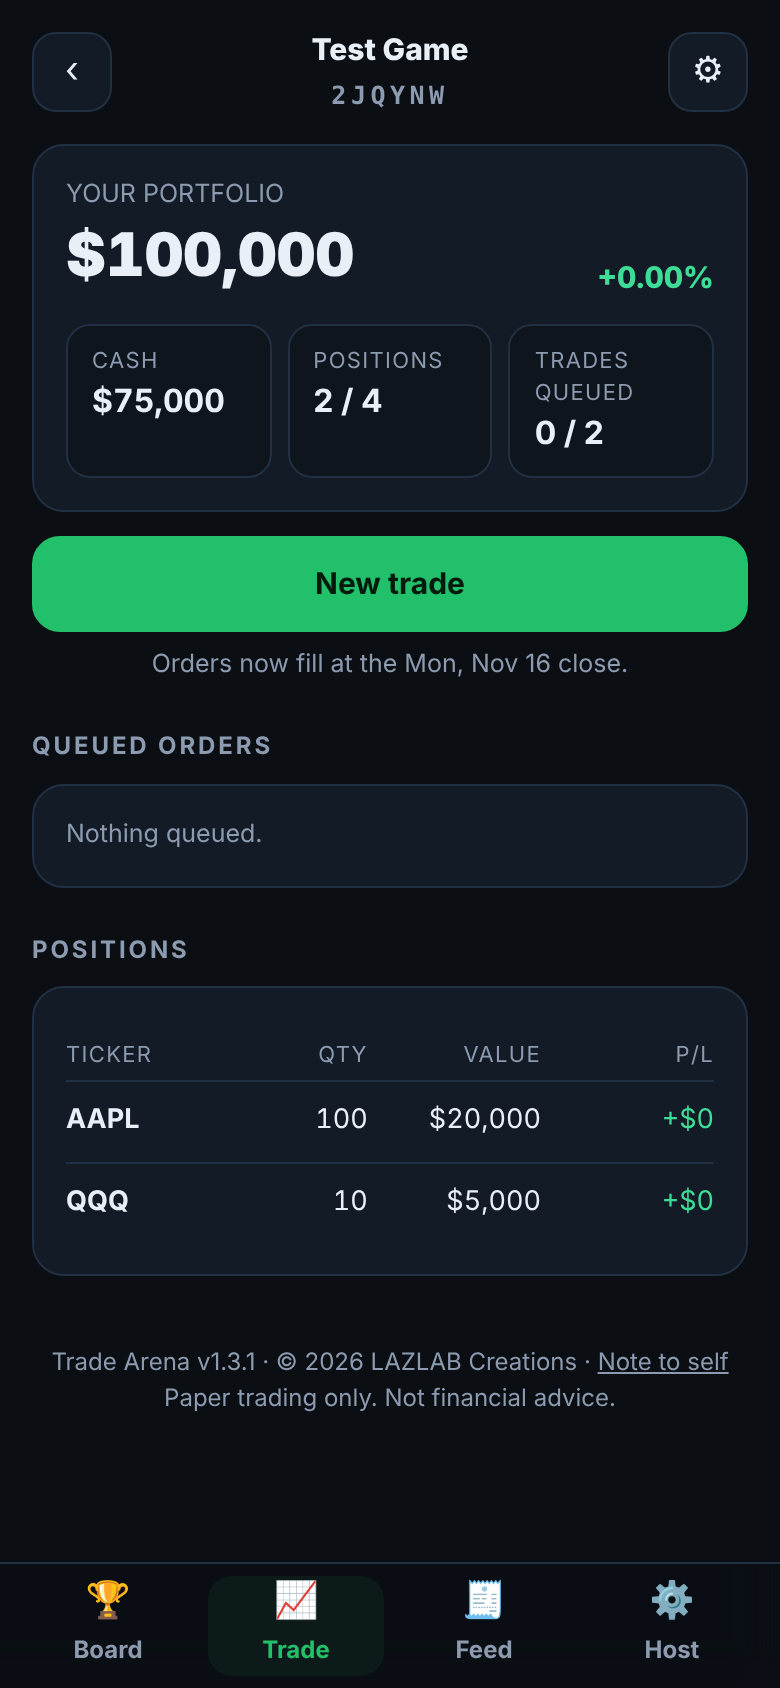
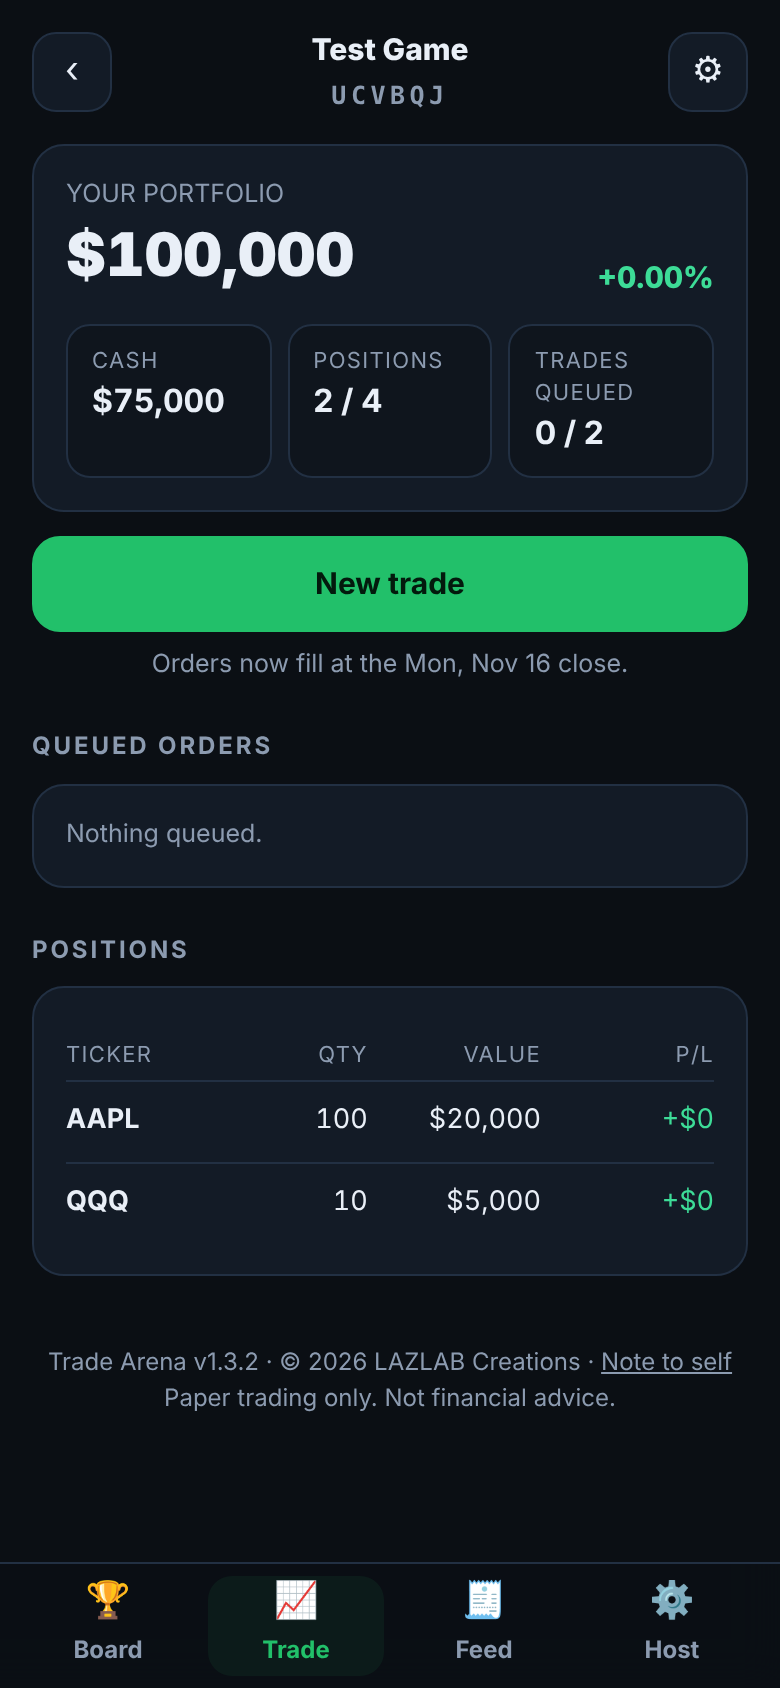
Use shared Cloudflare Worker price proxy by default (v1.3.2)
Claude-Session: https://claude.ai/code/session_01XbY6KJrmjtQR5KoU1WCBFq

Changed region(s): [[0.0615, 0.8009, 0.7385, 0.8318], [0.7692, 0.8009, 0.9538, 0.8318], [0.4308, 0.0308, 0.5846, 0.0616]]

diff --git a/app/index.html b/app/index.html
@@ -250,7 +250,7 @@ function retPct(eq, base) { return (eq / base - 1) * 100; }
 // ══════════════════════════════════════════
 //  HELPERS + MARKET DATA
 // ══════════════════════════════════════════
-const APP_VERSION = '1.3.1';
+const APP_VERSION = '1.3.2';
 const $ = (s, r) => (r || document).querySelector(s);
 const esc = s => String(s == null ? '' : s).replace(/[&<>"']/g, c => ({ '&': '&amp;', '<': '&lt;', '>': '&gt;', '"': '&quot;', "'": '&#39;' }[c]));
 const lsGet = (k, d) => { try { const v = localStorage.getItem(k); return v == null ? d : JSON.parse(v); } catch (e) { return d; } };
@@ -273,6 +273,8 @@ const PROXIES = [
   { id: 'allorigins', url: u => 'https://api.allorigins.win/raw?url=' + encodeURIComponent(u) },
   { id: 'codetabs', url: u => 'https://api.codetabs.com/v1/proxy?quest=' + encodeURIComponent(u) }
 ];
+// Shared price proxy (a free Cloudflare Worker that only forwards Yahoo chart requests). A proxy URL set in Settings overrides it.
+const DEFAULT_PROXY = 'https://trade-prices.johnlazzaro25.workers.dev';
 let proxyStats = lsGet('ta_proxy_stats', {});
 const proxyScore = id => { const s = proxyStats[id] || { ok: 0, fail: 0, ms: 0 }; return s.ok - s.fail * 1.5 - (s.ms || 0) / 4000; };
 function proxyNote(id, ok, ms) {
@@ -322,7 +324,7 @@ function proxyGet(urls) {
   const order = PROXIES.slice().sort((a, b) => proxyScore(b.id) - proxyScore(a.id));
   const mk = (id, mkUrl, u) => ({ id, run: async signal => parseYahoo(await fetch(mkUrl(u), { signal })) });
   const attempts = [];
-  const custom = cleanProxyUrl(lsRaw('ta_proxy'));
+  const custom = cleanProxyUrl(lsRaw('ta_proxy')) || DEFAULT_PROXY;
   if (custom) urls.forEach(u => attempts.push(mk('custom', x => custom + (custom.indexOf('?') >= 0 ? '&' : '?') + 'url=' + encodeURIComponent(x), u)));
   attempts.push(mk('direct', x => x, urls[0]));
   urls.forEach(u => order.forEach(p => attempts.push(mk(p.id, p.url, u))));

diff --git a/src/20_data.js b/src/20_data.js
@@ -1,7 +1,7 @@
 // ══════════════════════════════════════════
 //  HELPERS + MARKET DATA
 // ══════════════════════════════════════════
-const APP_VERSION = '1.3.1';
+const APP_VERSION = '1.3.2';
 const $ = (s, r) => (r || document).querySelector(s);
 const esc = s => String(s == null ? '' : s).replace(/[&<>"']/g, c => ({ '&': '&amp;', '<': '&lt;', '>': '&gt;', '"': '&quot;', "'": '&#39;' }[c]));
 const lsGet = (k, d) => { try { const v = localStorage.getItem(k); return v == null ? d : JSON.parse(v); } catch (e) { return d; } };
@@ -24,6 +24,8 @@ const PROXIES = [
   { id: 'allorigins', url: u => 'https://api.allorigins.win/raw?url=' + encodeURIComponent(u) },
   { id: 'codetabs', url: u => 'https://api.codetabs.com/v1/proxy?quest=' + encodeURIComponent(u) }
 ];
+// Shared price proxy (a free Cloudflare Worker that only forwards Yahoo chart requests). A proxy URL set in Settings overrides it.
+const DEFAULT_PROXY = 'https://trade-prices.johnlazzaro25.workers.dev';
 let proxyStats = lsGet('ta_proxy_stats', {});
 const proxyScore = id => { const s = proxyStats[id] || { ok: 0, fail: 0, ms: 0 }; return s.ok - s.fail * 1.5 - (s.ms || 0) / 4000; };
 function proxyNote(id, ok, ms) {
@@ -73,7 +75,7 @@ function proxyGet(urls) {
   const order = PROXIES.slice().sort((a, b) => proxyScore(b.id) - proxyScore(a.id));
   const mk = (id, mkUrl, u) => ({ id, run: async signal => parseYahoo(await fetch(mkUrl(u), { signal })) });
   const attempts = [];
-  const custom = cleanProxyUrl(lsRaw('ta_proxy'));
+  const custom = cleanProxyUrl(lsRaw('ta_proxy')) || DEFAULT_PROXY;
   if (custom) urls.forEach(u => attempts.push(mk('custom', x => custom + (custom.indexOf('?') >= 0 ? '&' : '?') + 'url=' + encodeURIComponent(x), u)));
   attempts.push(mk('direct', x => x, urls[0]));
   urls.forEach(u => order.forEach(p => attempts.push(mk(p.id, p.url, u))));

diff --git a/test/e2e.js b/test/e2e.js
@@ -21,7 +21,7 @@ function yahoo(t) {
 (async () => {
   const browser = await chromium.launch({ executablePath: '/usr/bin/google-chrome', args: ['--no-sandbox'] });
   const ctx = await browser.newContext({ viewport: { width: 390, height: 844 }, deviceScaleFactor: 2 });
-  await ctx.route(/query[12]\.finance\.yahoo\.com/, r => { const t = decodeURIComponent(r.request().url().match(/chart\/([^?]+)/)[1]); r.fulfill({ status: 200, contentType: 'application/json', headers: { 'access-control-allow-origin': '*' }, body: JSON.stringify(yahoo(t)) }); });
+  await ctx.route(/query[12]\.finance\.yahoo\.com/, r => { const t = decodeURIComponent(r.request().url().match(/chart(?:\/|%2F)([^%?&]+)/)[1]); r.fulfill({ status: 200, contentType: 'application/json', headers: { 'access-control-allow-origin': '*' }, body: JSON.stringify(yahoo(t)) }); });
   await ctx.route(/api\.groq\.com\/openai\/v1\/models/, r => r.fulfill({ status: 200, contentType: 'application/json', headers: { 'access-control-allow-origin': '*' }, body: JSON.stringify({ data: [{ id: 'qwen/qwen3.6-27b', created: 5, active: true }, { id: 'llama-3.3-70b-versatile', created: 4, active: true }, { id: 'whisper-large-v3', created: 9, active: true }] }) }));
   let groqBody = null;
   await ctx.route(/api\.groq\.com\/openai\/v1\/chat\/completions/, r => { groqBody = JSON.parse(r.request().postData()); r.fulfill({ status: 200, contentType: 'application/json', headers: { 'access-control-allow-origin': '*' }, body: JSON.stringify({ choices: [{ message: { content: '{"orders":[{"s":"buy","t":"MSFT","q":50,"n":"quality compounder"},{"s":"buy","t":"NVDA","q":9999,"n":"too big"}],"summary":"Starting with a core holding."}' } }] }) }); });

diff --git a/app/sw.js b/app/sw.js
@@ -1,5 +1,5 @@
 // Trade Arena service worker: app shell offline, never caches prices, Firebase, or Groq.
-const CACHE = 'trade-arena-v1.3.1';
+const CACHE = 'trade-arena-v1.3.2';
 const SHELL = ['./', 'index.html', 'manifest.json', 'icon-192.png', 'icon-512.png'];
 const LIBS = ['www.gstatic.com', 'cdnjs.cloudflare.com'];
 self.addEventListener('install', e => { e.waitUntil(caches.open(CACHE).then(c => c.addAll(SHELL)).then(() => self.skipWaiting())); });

diff --git a/README.md b/README.md
@@ -59,7 +59,7 @@ Leave "Play online" off when creating a game. Share the **game file** from the H
 
 ## Price data
 
-Daily bars come from Yahoo Finance's public chart endpoint through free CORS proxies (same hedged-race approach as AXIOM). The free proxies are unreliable (corsproxy.io now requires a key), so for real games set up your own free Cloudflare Worker: create a Worker, paste `docs/worker.js`, deploy, and put its URL in Settings → Price proxy. Prices are end-of-day for settlement, delayed for the order screen.
+Daily bars come from Yahoo Finance's public chart endpoint through free CORS proxies (same hedged-race approach as AXIOM). The free proxies are unreliable (corsproxy.io now requires a key), so the app now routes through a free Cloudflare Worker (`docs/worker.js`, it only forwards Yahoo chart requests). To use your own instead, deploy that file as a Worker and put its URL in Settings → Price proxy. Prices are end-of-day for settlement, delayed for the order screen.
 
 ## Limits worth knowing
 
@@ -99,6 +99,7 @@ Run `./build.sh` to rebuild `app/index.html` from `src/`, `node test/engine.test
 
 ## Changelog
 
+- **1.3.2**: prices now go through a Cloudflare Worker first (fast and reliable), with the free proxies as fallback.
 - **1.3.1**: dropped the dead corsproxy.io route, smaller default AI watchlist, added docs/worker.js for a personal price proxy.
 - **1.3.0**: live estimates on the Trade tab: queued orders show the current price and gain/loss since placed, positions use live prices (refreshed every minute while open).
 - **1.2.1**: the trade card button only shows in offline games (online players log their own orders).
